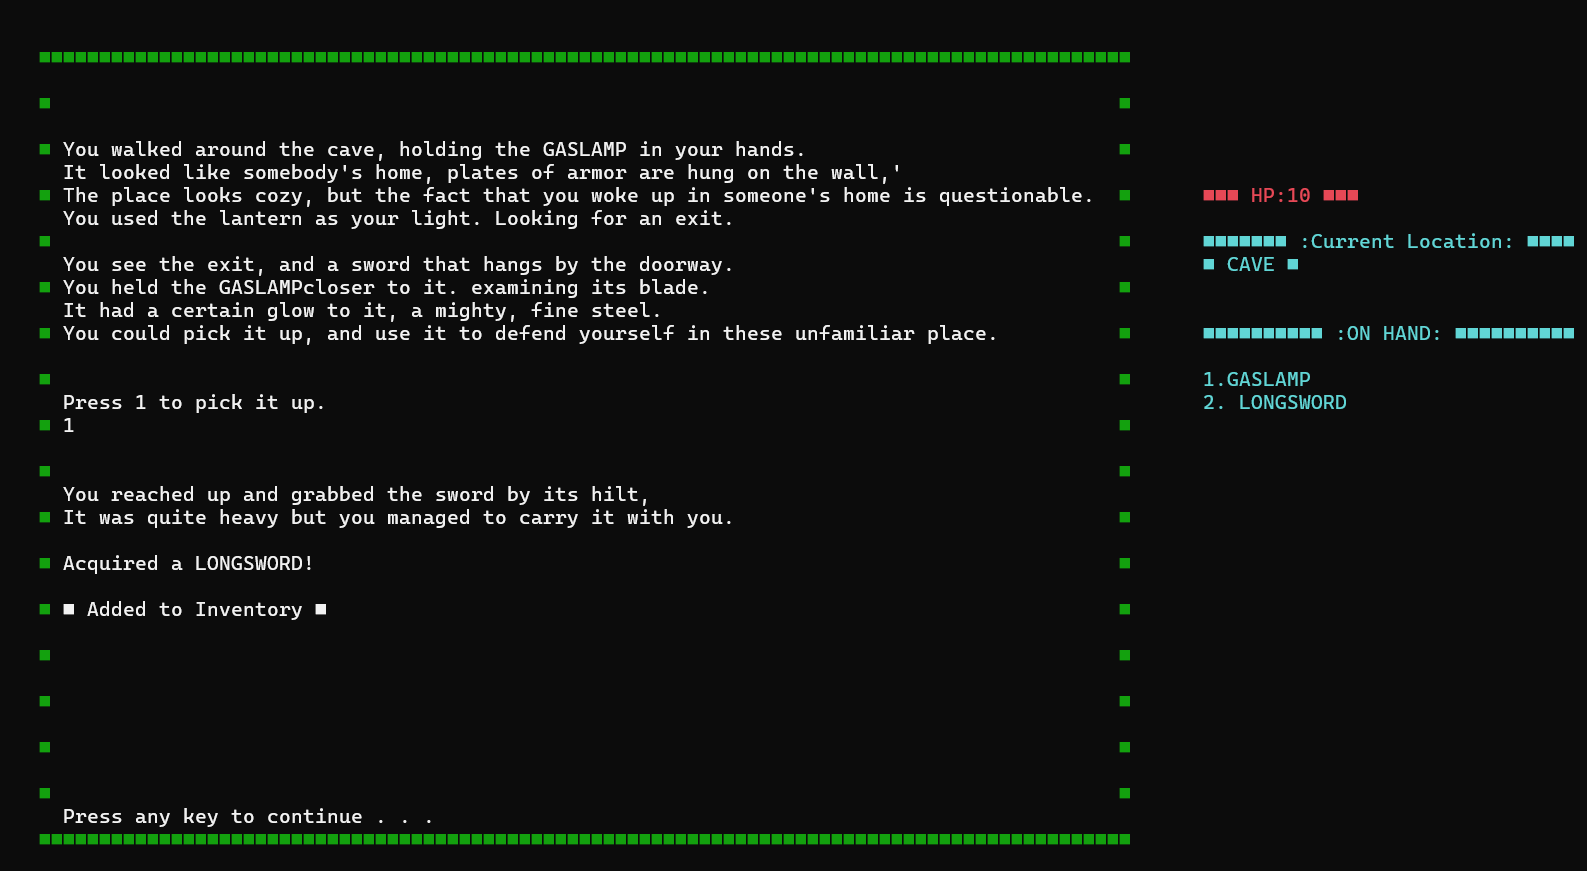
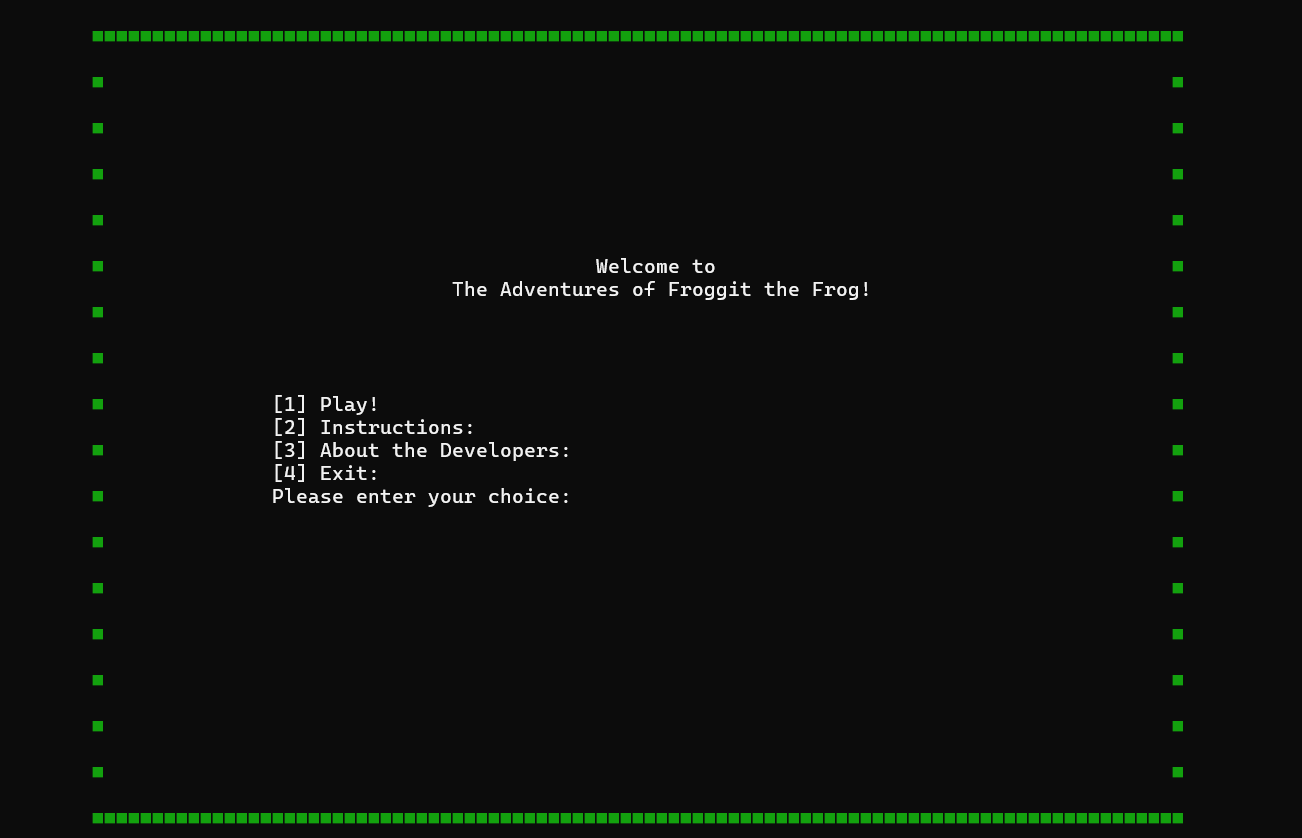
Updated SDT, Ebochord, and TAFF

diff --git a/index.html b/index.html
@@ -139,10 +139,21 @@
     </div>
 </div>
 
-                <div class="project-card">
-                    <div class="project-image">
-                        <img src="assets/SDT_Preview.png" alt="SDT preview">
-                    </div>
+<div class="project-card">
+    <div class="project-slideshow">
+        <div class="slides">
+            <img src="assets/SDT_Preview.png" alt="SDT screenshot 1" class="slide active">
+            <img src="assets/SDT_Preview 2.png" alt="SDT screenshot 2" class="slide">
+            <img src="assets/SDT_Preview 3.png" alt="SDT screenshot 3" class="slide">
+        </div>
+        <button class="slide-btn prev">‹</button>
+        <button class="slide-btn next">›</button>
+        <div class="slide-dots">
+            <span class="dot active"></span>
+            <span class="dot"></span>
+            <span class="dot"></span>
+        </div>
+    </div>
                     <div class="project-header">
                         <h3 class="project-title">Single Dimensional Theatre</h3>
                         <span class="project-tag">Windows Application</span>
@@ -159,10 +170,21 @@
                     </div>
                 </div>
 
-                <div class="project-card">
-                <div class="project-image">
-                    <img src="assets/Ebochord_Preview.png" alt="E - Bochord preview">
-                </div>
+<div class="project-card">
+    <div class="project-slideshow">
+        <div class="slides">
+            <img src="assets/Ebochord_Preview 2.png" alt="EBochord screenshot 1" class="slide active">
+            <img src="assets/Ebochord_Preview 3.png 2.png" alt="EBochhord screenshot 2" class="slide">
+            <img src="assets/Ebochord_Preview.png 3.png" alt="Ebochhord screenshot 3" class="slide">
+        </div>
+        <button class="slide-btn prev">‹</button>
+        <button class="slide-btn next">›</button>
+        <div class="slide-dots">
+            <span class="dot active"></span>
+            <span class="dot"></span>
+            <span class="dot"></span>
+        </div>
+    </div>
                 <div class="project-header">
                     <h3 class="project-title">E-Bochord Library System</h3>
                     <span class="project-tag">Windows Application</span>
@@ -176,10 +198,30 @@
 
             </div>
 
-            <div class="project-card">
-            <div class="project-image">
-                <img src="assets/TAFF_Preview.png" alt="Froggit the Frog preview">
-            </div>
+<div class="project-card">
+    <div class="project-slideshow">
+        <div class="slides">
+            <img src="assets/TAFF_Preview.png" alt="TAFF SS TITLE" class="slide active">
+            <img src="assets/TAFF_Preview 2.png" alt="TAFF SS 1" class="slide">
+            <img src="assets/TAFF_Preview 3.png" alt="TAFF SS 2" class="slide">
+            <img src="assets/TAFF_Preview 4.png" alt="TAFF SS 3" class="slide">
+            <img src="assets/TAFF_Preview 5.png" alt="TAFF SS 4" class="slide">
+            <img src="assets/TAFF_Preview 6.png" alt="TAFF SS 5" class="slide">
+            <img src="assets/TAFF_Preview 7.png" alt="TAFF SS 6" class="slide">
+        </div>
+        <button class="slide-btn prev">‹</button>
+        <button class="slide-btn next">›</button>
+        <div class="slide-dots">
+            <span class="dot active"></span>
+            <span class="dot"></span>
+            <span class="dot"></span>
+            <span class="dot"></span>
+            <span class="dot"></span>
+            <span class="dot"></span>
+            <span class="dot"></span>
+
+        </div>
+    </div>
             <div class="project-header">
                 <h3 class="project-title">The Adventures of Froggit the Frog</h3>
                     <span class="project-tag">Text Adventure</span>
@@ -231,13 +273,15 @@
                     </div>
                 </div>
                 <div class="skill-group">
-                    <h3>Other Skills</h3>
+                    <h3>Others</h3>
                     <div class="skill-tags">
                         <span>Technical Writing</span>
                         <span>Basic Networking</span>
                         <span>Microsoft Office Proficiency</span>
                         <span>Adobe Photoshop Proficiency</span>
                         <span>Hardware and Software Troubleshooting</span>
+                        <span>Windows Proficiency</span>
+                        <span>Basic Knowledge of Active Directory</span>
                     </div>
                 </div>
             </div>